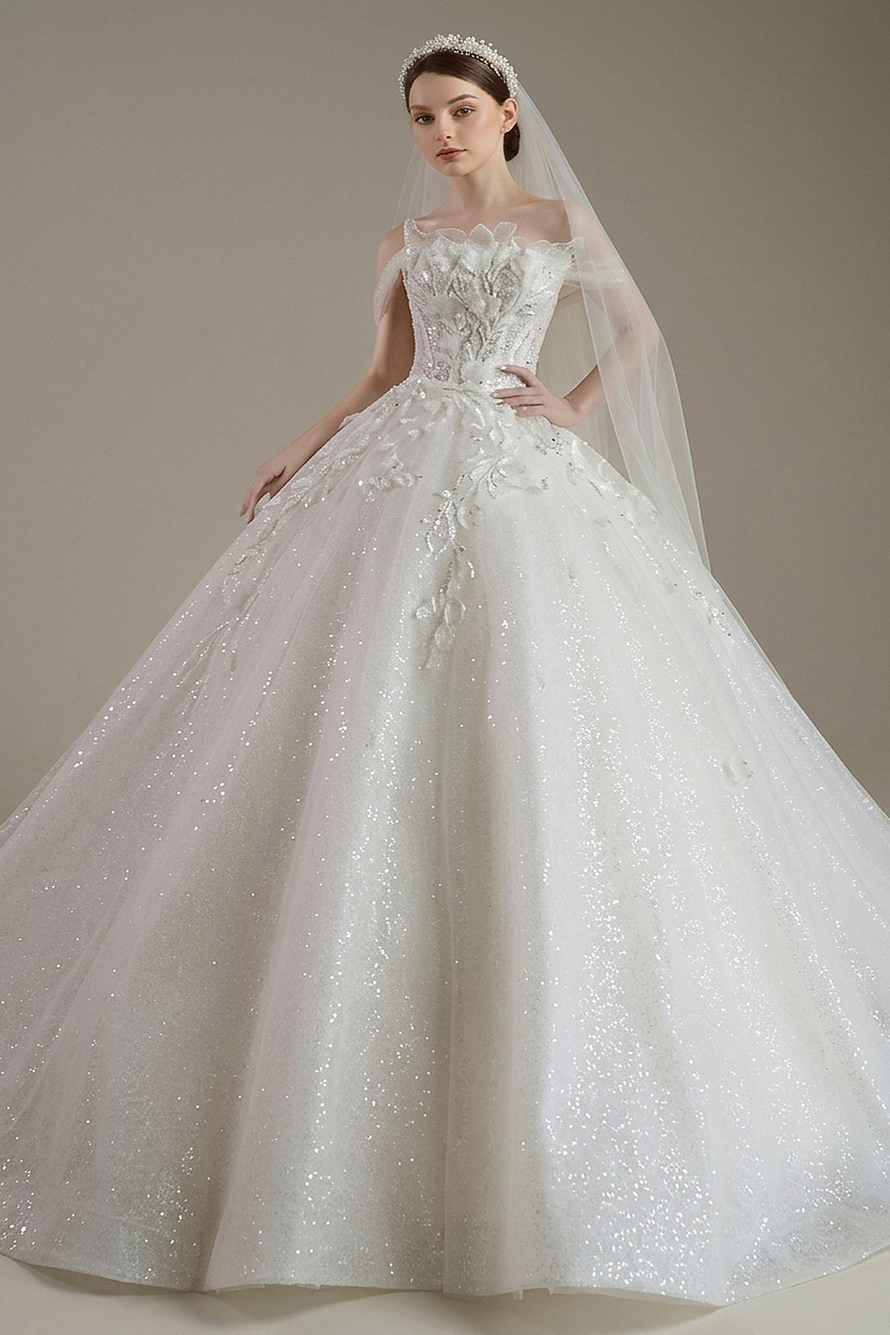
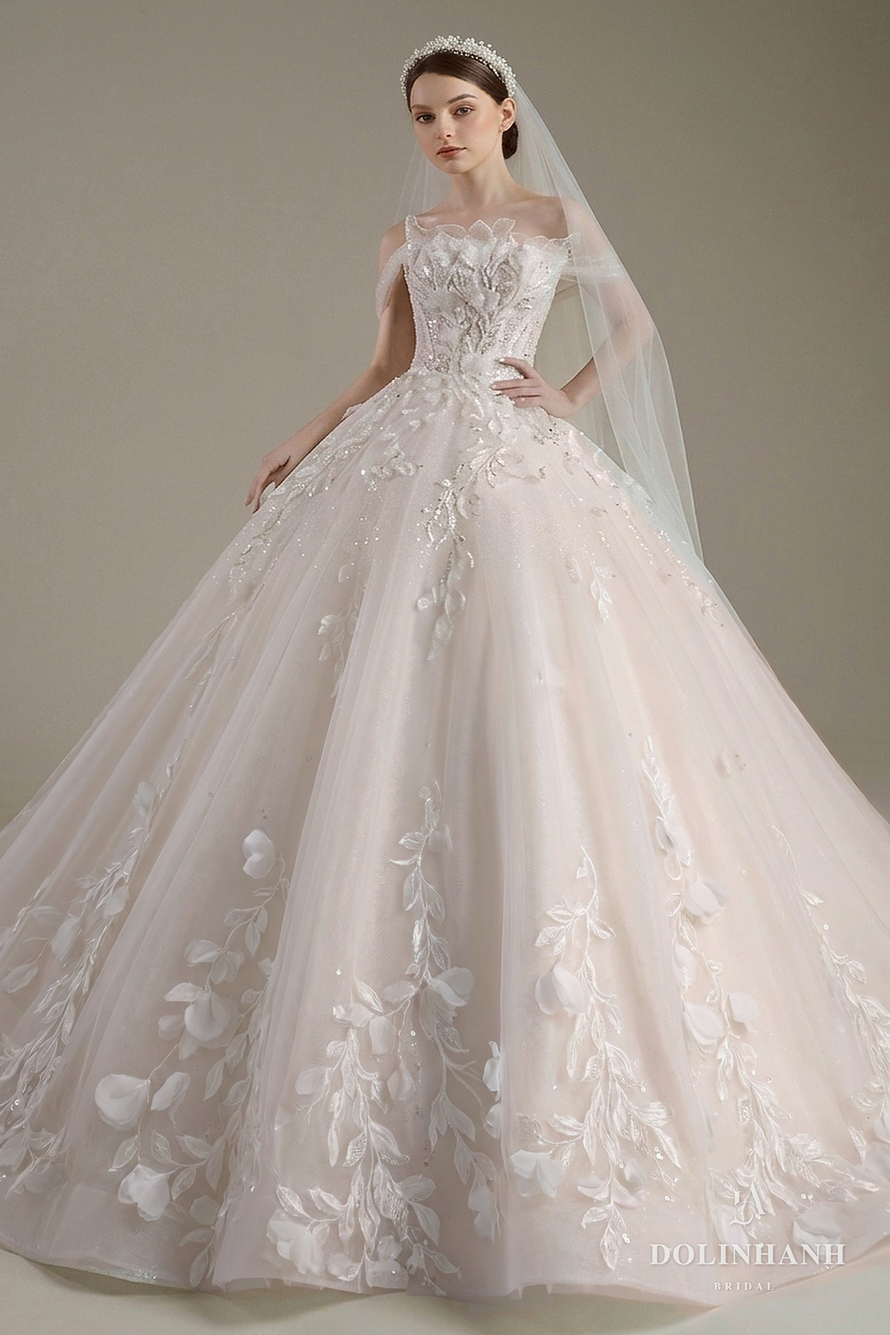
V180: sua anh MS 165: bo that eo, trang nude, chan vay ren la

diff --git a/bo-suu-tap.html b/bo-suu-tap.html
@@ -1575,7 +1575,7 @@ src="https://www.facebook.com/tr?id=1358640082651240&ev=PageView&noscript=1"
         </figure>
         <figure data-dang="ballgown" data-mood="editorial" data-coso="hcm">
           <div class="sl-khung">
-            <div class="sl" data-img="anh/vay/ms165/01.jpg"></div>
+            <div class="sl" data-img="anh/vay/ms165/01.jpg?v=0511"></div>
           </div>
           <figcaption><span class="kind" data-en="Dolinhanh Bridal" data-zh="Dolinhanh Bridal">Dolinhanh Bridal</span><span class="nm">MS 165</span><span class="de" data-en="Sparkle, voluminous skirt" data-zh="闪钻，丰盈大裙摆">Lấp lánh, tùng xoè bồng</span><span class="gia">US$1,880</span></figcaption>
         </figure>
